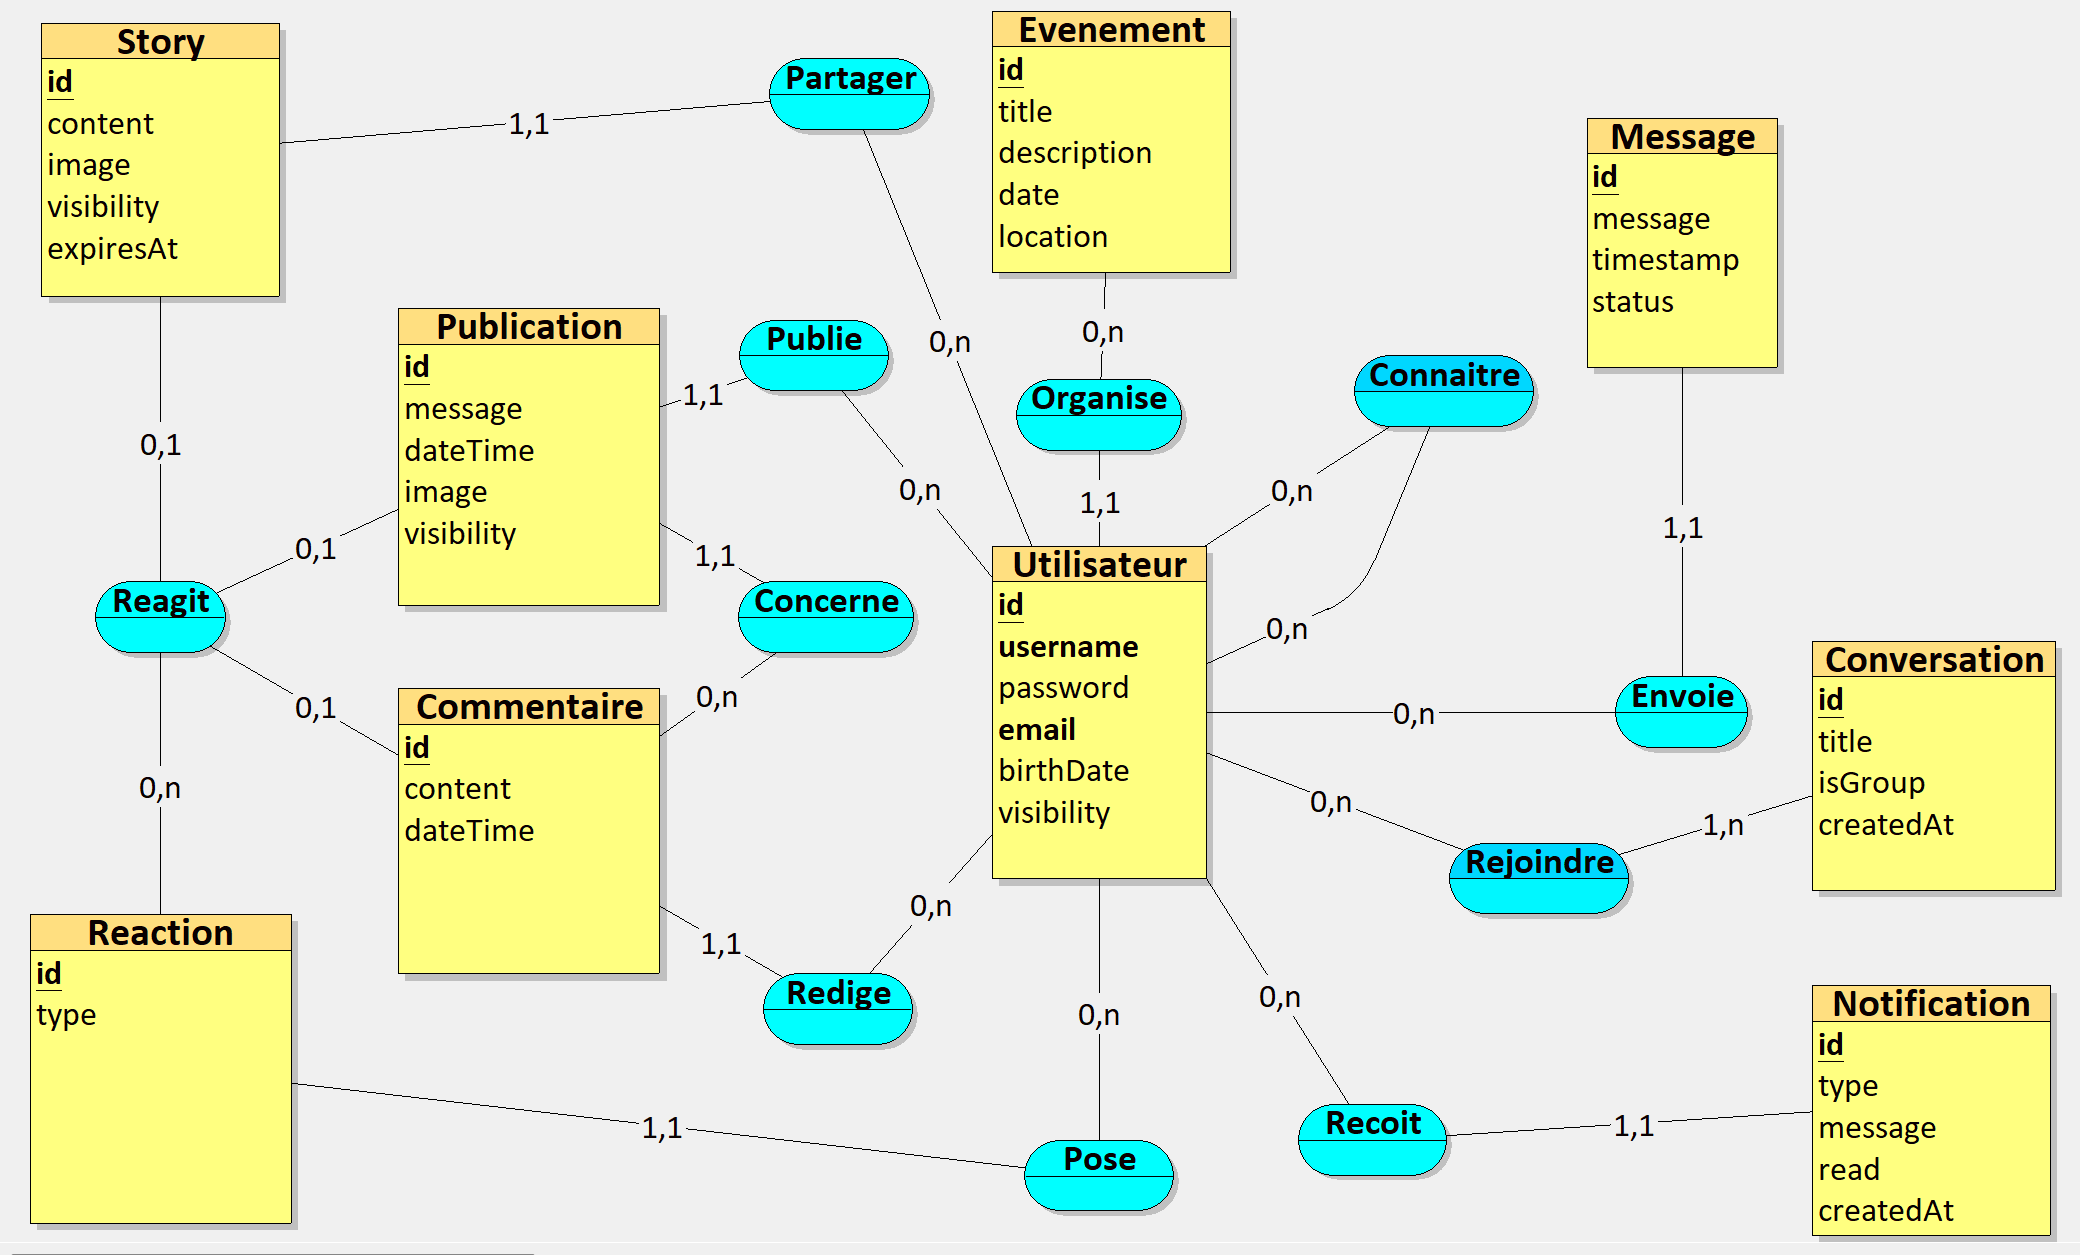
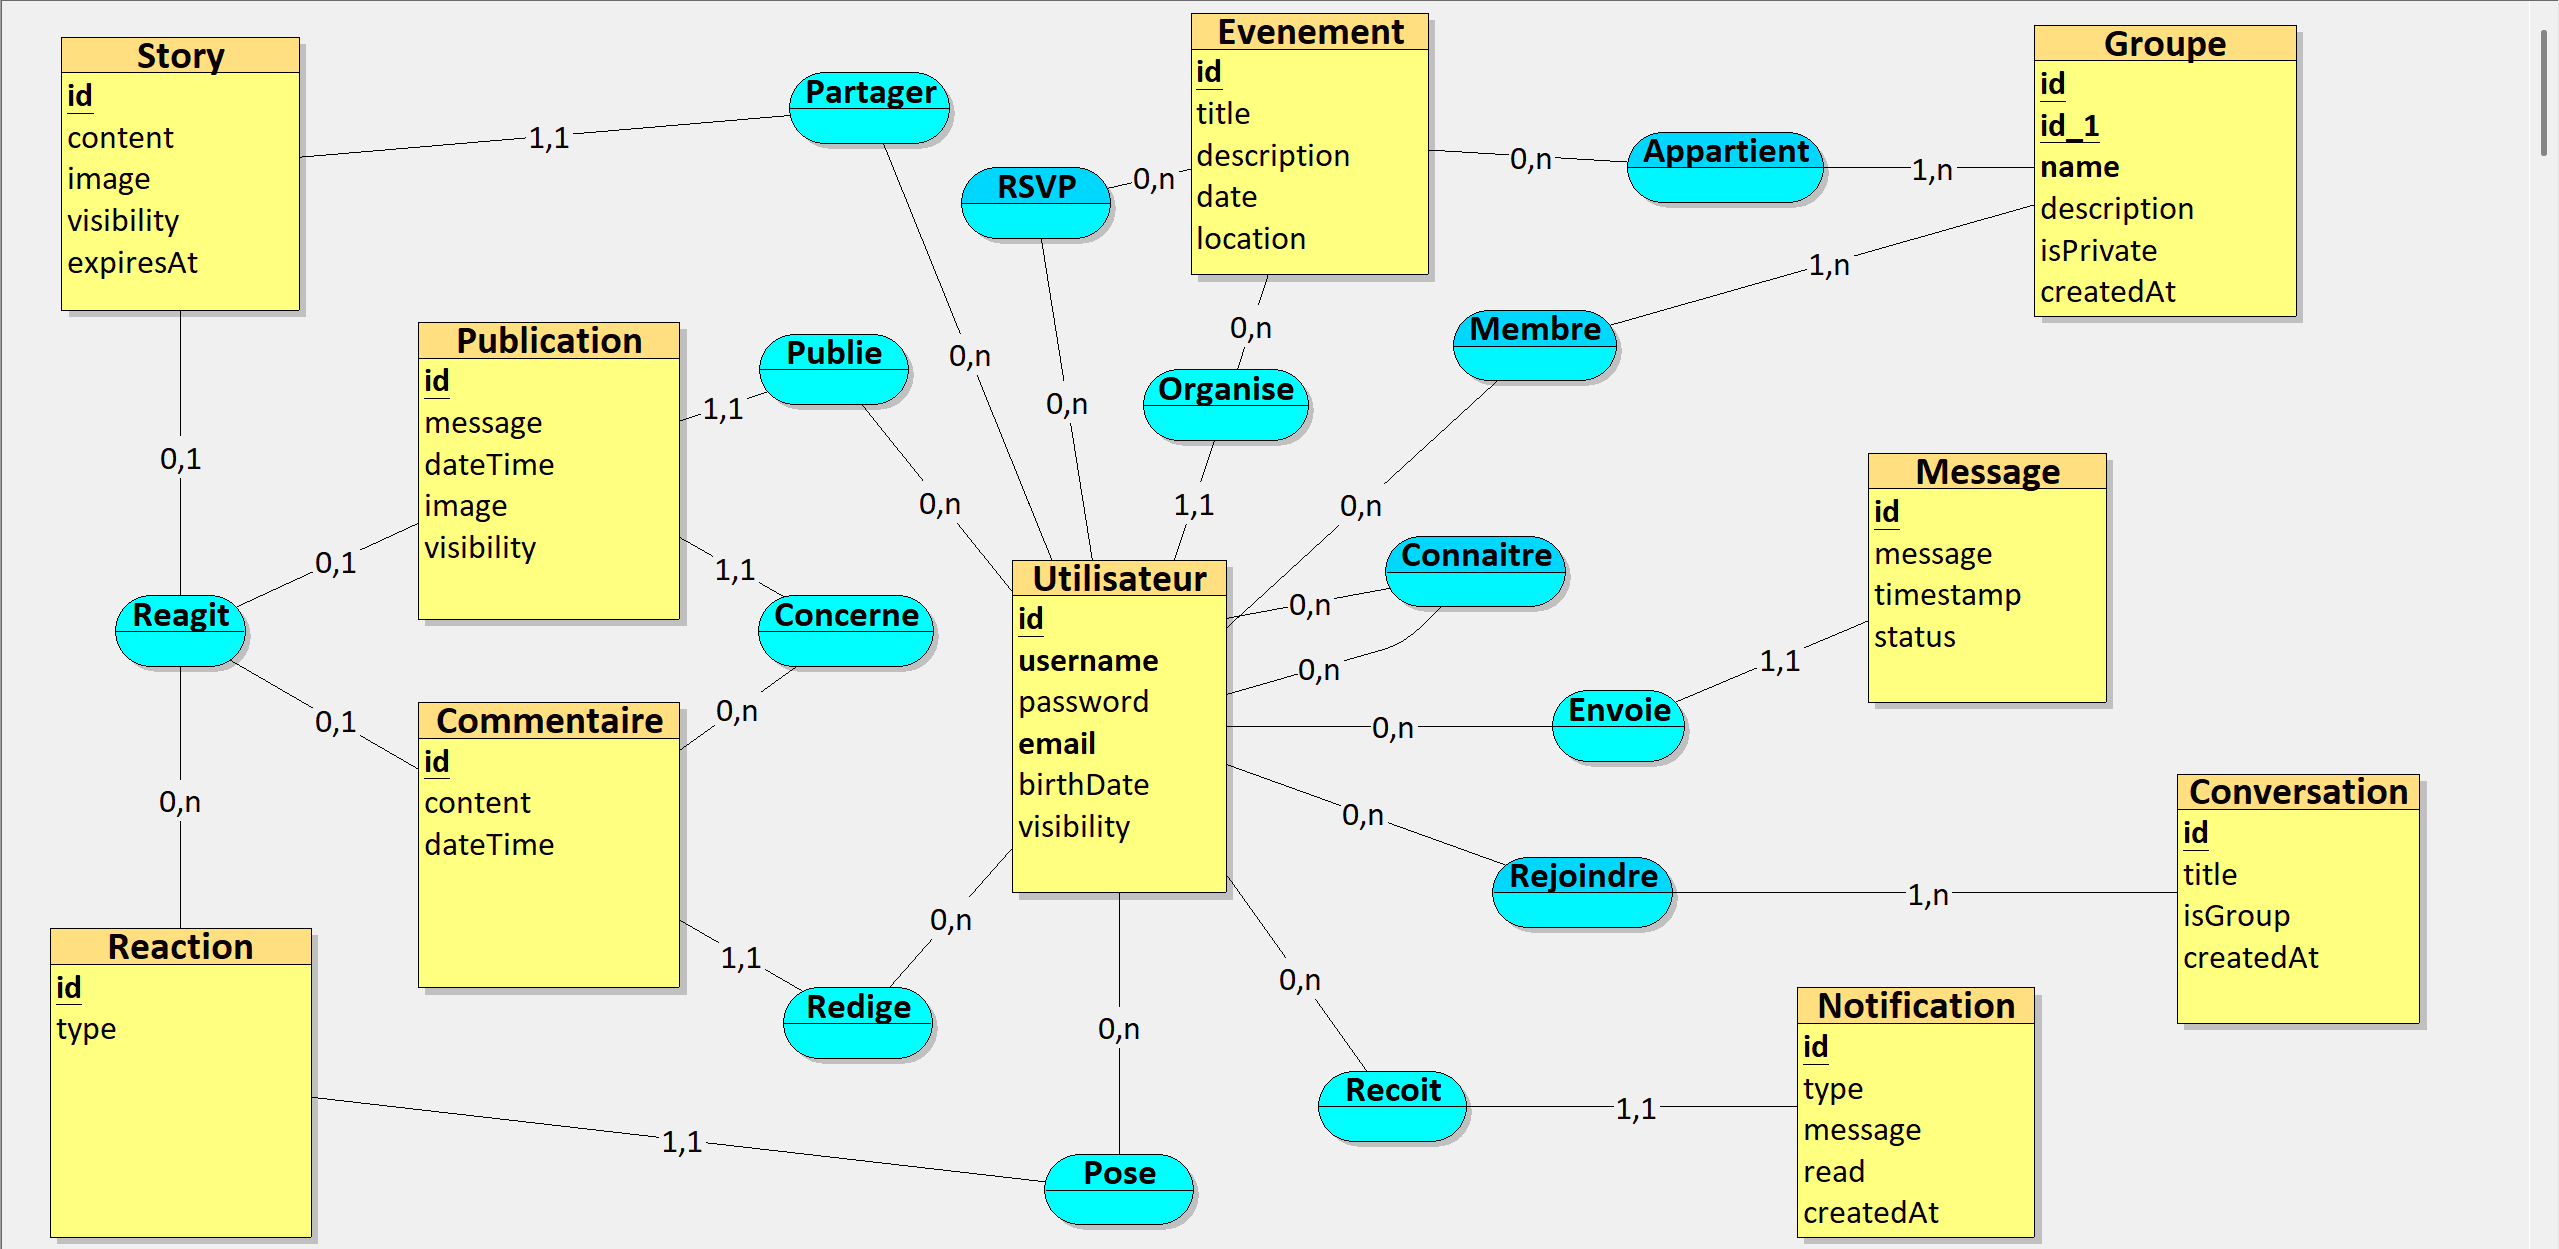
fix(mcd): alignement MCD draw.io ↔ dossier ↔ présentation
- draw.io : ajout entités GROUPE, RSVP, MEMBRE, APPARTIENT
- slide 17 : image MCD remplacée (draw.io export), titre 18→10 entités
- diagrammes-uml.md : référence dbdiagram.io → draw.io
- donnees.md : note GROUPE conceptuel = Conversation(isGroup=true) Prisma

diff --git a/dossier-certification/03-conception/diagrammes-uml.md b/dossier-certification/03-conception/diagrammes-uml.md
@@ -1234,7 +1234,7 @@ Pour la défense devant le jury, ce tableau permet de pointer directement le cod
 
 ## Utilisation
 
-- **MCD / MLD** : coller dans dbdiagram.io pour visualiser les relations.
+- **MCD** : fichier source `03-conception/mcd-social-network.drawio` — ouvrir dans [app.diagrams.net](https://app.diagrams.net) ou l'extension draw.io de VS Code pour visualiser et exporter.
 - **MPD** : utiliser comme base SQL de référence pour expliquer la structure physique pendant la soutenance.
 - **Diagramme de classes** : section 4 ci-dessus, rendu Mermaid sur GitHub ou via [mermaid.live](https://mermaid.live) pour export PNG/SVG en vue d'intégration dans le diaporama.
 - **Diagramme de cas d'utilisation** : section 5 ci-dessus, même méthode d'export.

diff --git a/dossier-certification/03-conception/donnees.md b/dossier-certification/03-conception/donnees.md
@@ -218,7 +218,7 @@ Source : `prisma/schema.prisma` — traduit en types SQL PostgreSQL.
 
 ## Model: Conversation
 
-**Description :** Conversation de groupe ou wrapper DM.
+**Description :** Conversation de groupe ou wrapper DM. Dans le MCD conceptuel (`mcd-social-network.drawio`), cette entité est représentée sous le nom **GROUPE** lorsque `isGroup = true` — c'est un choix de modélisation Prisma (une seule table, pas de modèle `Group` dédié). Le MCD draw.io matérialise la distinction conceptuelle avec une entité GROUPE reliée à EVENEMENT (APPARTIENT) et à UTILISATEUR (MEMBRE).
 
 ### Attributs
 